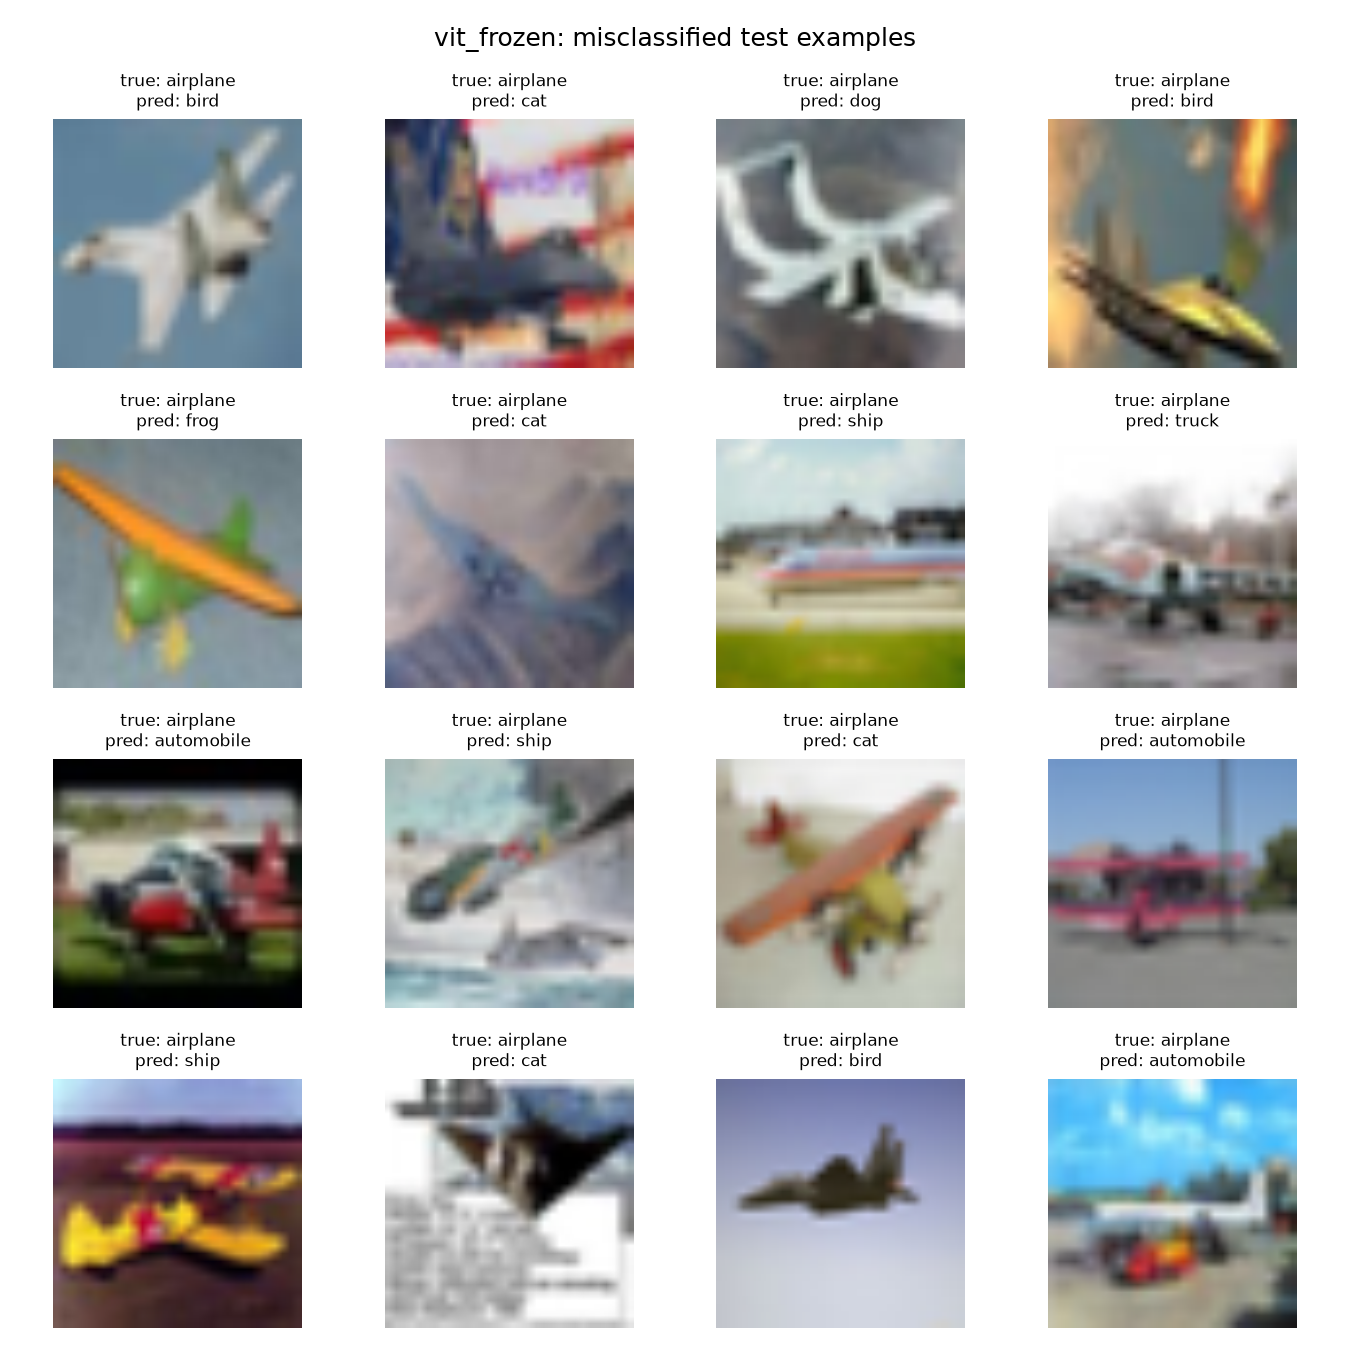
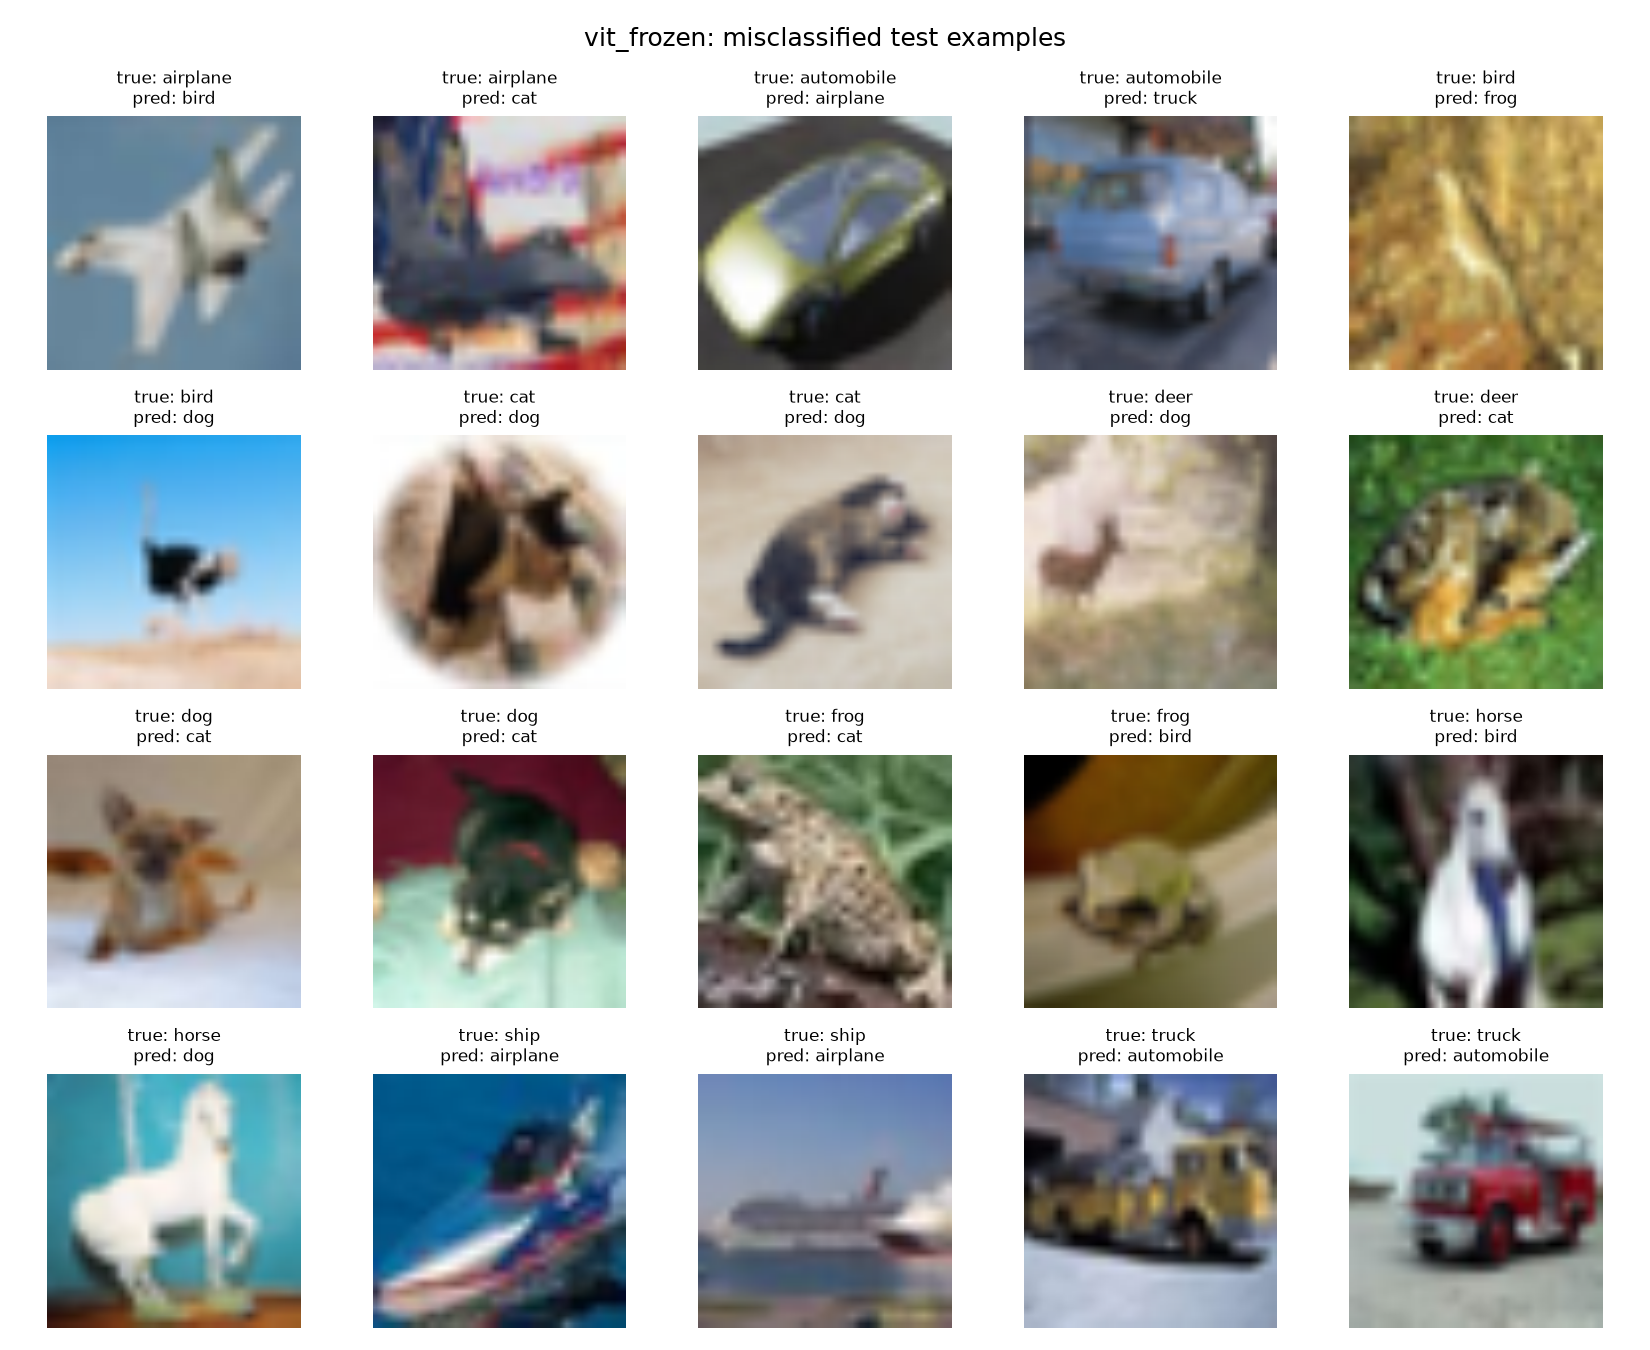
fixed some bugs

diff --git a/src/evaluate.py b/src/evaluate.py
@@ -23,21 +23,24 @@ from resnet import ResNet18
 
 
 @torch.no_grad()
-def collect_predictions(model, loader, device, max_failures=32):
-    """Returns (y_true, y_pred) over the whole loader plus up to
-    `max_failures` misclassified images (tensor, true, pred)."""
+def collect_predictions(model, loader, device, per_class=2):
+    """Returns (y_true, y_pred) over the whole loader plus up to `per_class`
+    misclassified images (tensor, true, pred) for each true class. The test
+    split is stored class by class, so capping per class (rather than taking
+    the first N failures) keeps the examples from all being airplanes."""
     model.eval()
-    y_true, y_pred, failures = [], [], []
+    y_true, y_pred = [], []
+    failures = {c: [] for c in range(len(CLASSES))}
     for images, labels in loader:
         outputs = logits_of(model(images.to(device)))
         predicted = outputs.argmax(1).cpu()
         y_true.append(labels)
         y_pred.append(predicted)
-        if len(failures) < max_failures:
-            for i in (predicted != labels).nonzero().flatten():
-                failures.append((images[i], labels[i].item(), predicted[i].item()))
-                if len(failures) >= max_failures:
-                    break
+        for i in (predicted != labels).nonzero().flatten():
+            true = labels[i].item()
+            if len(failures[true]) < per_class:
+                failures[true].append((images[i], true, predicted[i].item()))
+    failures = [f for c in range(len(CLASSES)) for f in failures[c]]
     return torch.cat(y_true).numpy(), torch.cat(y_pred).numpy(), failures
 
 
@@ -62,12 +65,13 @@ def plot_confusion(cm, name):
 def plot_failures(failures, name, mean, std):
     mean = torch.tensor(mean).view(3, 1, 1)
     std = torch.tensor(std).view(3, 1, 1)
-    n = min(len(failures), 16)
-    fig, axes = plt.subplots(4, 4, figsize=(9, 9))
-    for ax, (img, true, pred) in zip(axes.flat, failures[:n]):
+    # 4x5 grid: two failures per true class, in class order.
+    fig, axes = plt.subplots(4, 5, figsize=(11, 9))
+    for ax in axes.flat:
+        ax.axis("off")
+    for ax, (img, true, pred) in zip(axes.flat, failures):
         ax.imshow((img * std + mean).clamp(0, 1).permute(1, 2, 0))
         ax.set_title(f"true: {CLASSES[true]}\npred: {CLASSES[pred]}", fontsize=8)
-        ax.axis("off")
     fig.suptitle(f"{name}: misclassified test examples")
     fig.tight_layout()
     out = PLOT_DIR / f"{name}_failures.png"

diff --git a/report/report.md b/report/report.md
@@ -1,0 +1,173 @@
+# CSCI 677 — Homework 3: Image Classification with ResNet-18 and ViT
+
+**Name:** Abhijay Desai
+**Date:** October 2026
+
+> Skeleton note: all numbers, tables, and figures below are real results from my
+> runs. `TODO` marks places to write analysis prose.
+
+## 1. Setup
+
+**Dataset.** CINIC-10: 270,000 32×32 images in 10 classes, split evenly into
+train/valid/test (90,000 each). Loaded with `torchvision.datasets.ImageFolder`.
+ResNet inputs use the normalization constants from the assignment; ViT inputs
+are resized to 224×224 and normalized with mean = std = 0.5, matching the
+preprocessing the `google/vit-base-patch16-224-in21k` checkpoint was
+pretrained with.
+
+**Hardware.** Apple M1 Pro (16 GB), PyTorch `mps` backend.
+
+**Experiments.**
+
+| | ResNet-18 | ViT full fine-tune | ViT frozen-head |
+|---|---|---|---|
+| Initialization | from scratch | `google/vit-base-patch16-224-in21k` | same |
+| Trainable params | 11,173,962 | 85,806,346 | 7,690 (head only) |
+| Input size | 32×32 | 224×224 (upsampled) | 224×224 (upsampled) |
+| Epochs | 20 | 2 | 2 |
+| Batch size | 32 | 16 | 16 |
+| Optimizer | Adam (β₁=0.9, β₂=0.999) | Adam | Adam |
+| Learning rate | 1e-3 | 5e-5 | 1e-3 |
+| Loss | cross-entropy | cross-entropy | cross-entropy |
+| Training time | 67 min | 179 min | 90 min |
+
+**Note on ViT learning rate.** The suggested 1e-3 is used for ResNet and for the
+frozen-head variant, but full fine-tuning used 5e-5: TODO — one sentence on why
+(large LR destroys pretrained weights early in training; standard practice for
+transformer fine-tuning).
+
+**ResNet-18 architecture.** Implemented layer by layer per Figure 1 of the
+assignment: 3×3/s1 stem (64 ch), four stages of two BasicBlocks each
+(64/128/256/512 ch), stride-2 convolutions with 1×1-conv+BN shortcuts in the
+first block of stages 2–4, global average pooling, FC 512→10. Verified stage
+output shapes 32→16→8→4 and parameter count against the reference.
+
+## 2. Training curves and validation accuracy
+
+### ResNet-18
+
+![ResNet-18 curves](figures/resnet18_curves.png)
+
+Validation accuracy by epoch (best **74.13%** @ epoch 6):
+
+| Epoch | 1 | 2 | 3 | 4 | 5 | 6 | 10 | 15 | 20 |
+|---|---|---|---|---|---|---|---|---|---|
+| Val acc (%) | 55.19 | 64.57 | 69.30 | 71.52 | 73.73 | **74.13** | 73.18 | 72.64 | 73.71 |
+
+TODO — analysis: validation accuracy plateaus at ~74% by epoch 6 and drifts
+slightly down afterward while training loss keeps decreasing → overfitting
+after ~epoch 6; no augmentation or weight decay was used in the main setting.
+
+### ViT (full fine-tune)
+
+![ViT full curves](figures/vit_full_curves.png)
+
+| Epoch | 1 | 2 |
+|---|---|---|
+| Val acc (%) | **93.28** | 92.92 |
+
+TODO — analysis: best accuracy after a single epoch; the small drop in epoch 2
+suggests the model already starts to overfit (training loss ≈ 0.13).
+
+### ViT (frozen body, head only)
+
+![ViT frozen curves](figures/vit_frozen_curves.png)
+
+| Epoch | 1 | 2 |
+|---|---|---|
+| Val acc (%) | 91.81 | **91.86** |
+
+## 3. Test results
+
+Overall top-1 test accuracy (90,000 test images):
+
+| Model | Test accuracy |
+|---|---|
+| ResNet-18 (scratch) | 73.71% |
+| ViT full fine-tune | **93.28%** |
+| ViT frozen-head | 91.73% |
+
+### Per-class accuracy
+
+| Class | ResNet-18 | ViT full | ViT frozen |
+|---|---|---|---|
+| airplane | 84.68 | 95.31 | 95.96 |
+| automobile | 86.67 | 93.81 | 92.01 |
+| bird | 60.80 | 95.44 | 93.67 |
+| cat | 60.81 | 92.48 | 87.79 |
+| deer | 69.48 | 90.09 | 90.38 |
+| dog | 58.97 | 86.81 | 87.39 |
+| frog | 82.16 | 98.44 | 95.59 |
+| horse | 84.34 | 95.72 | 94.82 |
+| ship | 81.19 | 97.92 | 95.03 |
+| truck | 68.04 | 86.78 | 84.64 |
+
+### Confusion matrices
+
+![ResNet-18 confusion](figures/resnet18_confusion.png)
+![ViT full confusion](figures/vit_full_confusion.png)
+![ViT frozen confusion](figures/vit_frozen_confusion.png)
+
+Largest off-diagonal confusions (true→predicted, counts out of 9,000/class):
+
+- **ResNet-18:** truck→automobile (2,082), cat→dog (1,601), dog→cat (1,191), dog→deer (973), deer→horse (900)
+- **ViT full:** truck→automobile (1,046), dog→cat (617), automobile→truck (460), cat→dog (377), airplane→ship (257)
+- **ViT frozen:** truck→automobile (1,147), cat→dog (639), dog→cat (624), automobile→truck (533), deer→dog (282)
+
+TODO — analysis: the same semantic confusion pairs dominate all three models
+(truck/automobile, cat/dog); pretrained features shrink but do not eliminate
+them.
+
+## 4. Failure cases
+
+![ResNet-18 failures](figures/resnet18_failures.png)
+![ViT full failures](figures/vit_full_failures.png)
+![ViT frozen failures](figures/vit_frozen_failures.png)
+
+Each grid shows the first two misclassified test images of every true class
+(rows read left to right in class order).
+
+TODO — pick 3–4 examples from the grids above and discuss: low resolution,
+ambiguous pose/background, CINIC's ImageNet-sourced images being noisier than
+CIFAR, fine-grained animal confusion, pickup trucks vs cars, etc.
+
+## 5. Comparison and discussion
+
+TODO — write up, covering at least:
+
+1. **ResNet vs ViT:** scratch-trained ResNet-18 (20 epochs) reaches 73.71%;
+   a ViT fine-tuned for only 2 epochs reaches 93.28% (+19.6 pts). Pretraining
+   on ImageNet-21k provides features that transfer to CINIC-10 even though the
+   32×32 images must be upsampled 7× to the ViT's 224×224 input.
+2. **Full fine-tune vs frozen head:** training only the 7,690-parameter head
+   already yields 91.73% (−1.55 pts vs full fine-tune) at half the training
+   time — the pretrained representation, not task-specific adaptation, carries
+   most of the performance. The gain from full fine-tuning is uneven across
+   classes: largest on cat (+4.7), ship (+2.9) and frog (+2.9), while the
+   frozen-head model is slightly better on airplane (−0.7), dog (−0.6) and
+   deer (−0.3).
+3. **Compute trade-off:** ResNet is far cheaper per epoch (32×32 input,
+   11M params) but starts from zero; the ViT costs more per step yet needs
+   10× fewer epochs for +19 pts.
+4. **Overfitting behavior:** ResNet overfits after ~6 epochs without
+   augmentation; ViT full fine-tune after 1 epoch; the frozen variant is the
+   most stable.
+
+## 6. Variations tried
+
+- ViT frozen-head vs full fine-tune (required variation) — see above.
+- ViT full fine-tune learning rate lowered to 5e-5 (from the suggested 1e-3) —
+  TODO: brief justification sentence.
+- TODO (optional): if you run any extra variation (augmentation flag
+  `--augment` on ResNet, different batch size/LR, SGD), add results here.
+
+## Appendix: reproducing
+
+```
+python src/train_resnet.py                  # 20 epochs, batch 32, Adam 1e-3
+python src/train_vit.py                     # full fine-tune, 2 epochs, 5e-5
+python src/train_vit.py --freeze            # head-only, 2 epochs, 1e-3
+python src/evaluate.py --model resnet
+python src/evaluate.py --model vit --name vit_full
+python src/evaluate.py --model vit --name vit_frozen --freeze
+```
